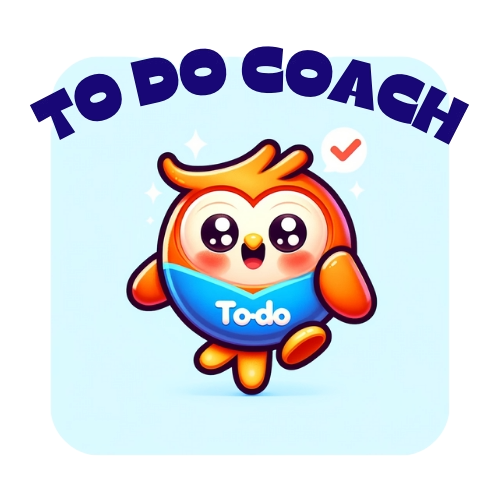
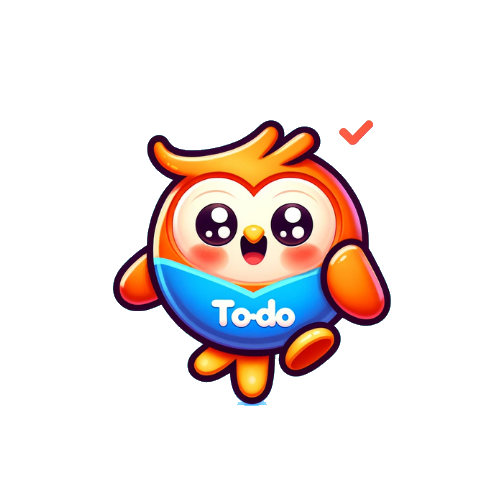
pop up messages and styling on application html file

diff --git a/app/javascript/controllers/edit_task_controller.js b/app/javascript/controllers/edit_task_controller.js
@@ -13,18 +13,4 @@ export default class extends Controller {
     this.infoTarget.classList.add("d-none")
     // this.formTarget.classList.remove("d-none")
   }
-
-  // update(event) {
-  //   event.preventDefault()
-  //   const url = this.formTarget.action
-  //   fetch(url, {
-  //     method: "PATCH",
-  //     headers: { "Accept": "text/plain" },
-  //     body: new FormData(this.formTarget)
-  //   })
-  //     .then(response => response.text())
-  //     .then((data) => {
-  //       this.cardTarget.outerHTML = data
-  //     })
-  // }
 }

diff --git a/app/assets/stylesheets/components/_modal_content.scss b/app/assets/stylesheets/components/_modal_content.scss
@@ -1,0 +1,32 @@
+.modal-body > .img {
+  display: block;
+  margin-left: auto;
+  margin-right: auto;
+}
+
+.modal-content {
+  border-radius: 4px;
+}
+
+#pop-up-avatar{
+  width: 120px;
+}
+
+.modal-body {
+  padding: 0px 0px 40px;
+}
+
+.modal-body > h1 {
+  color: $dark-blue;
+}
+
+#close{
+  padding: 4px;
+  background-color: $dark-blue;
+  opacity: 1;
+  width: 36px;
+}
+
+.btn-close {
+  color: whitesmoke;
+}

diff --git a/app/assets/stylesheets/components/_index.scss b/app/assets/stylesheets/components/_index.scss
@@ -7,3 +7,4 @@
 @import "search";
 @import "card";
 @import "priority_circles";
+@import "modal_content";

diff --git a/app/assets/stylesheets/components/_button.scss b/app/assets/stylesheets/components/_button.scss
@@ -33,3 +33,4 @@
 // .btn-ghost:hover {
 //   opacity: 1;
 // }
+

diff --git a/app/controllers/tasks_controller.rb b/app/controllers/tasks_controller.rb
@@ -70,7 +70,7 @@ class TasksController < ApplicationController
     @task['priority'] = @task['priority'].to_i
       @task.user = current_user
     if @task.save!
-      redirect_to task_path(@task)
+      redirect_to message_task_path(@task)
       ReminderJob.set(wait_until: @task.reminder_date).perform_later
     else
       render :new
@@ -93,14 +93,21 @@ class TasksController < ApplicationController
 
   def toggle_completed
     @task.update(completed: !@task.completed)
-    # redirect_to motivational_message
-    redirect_back(fallback_location: todays_tasks_path)
+    if @task.completed?
+      redirect_to message_task_path(@task)
+    else
+      redirect_back(fallback_location: todays_tasks_path)
+    end
   end
 
   def destroy
     @task = Task.find(params[:id])
     @task.destroy
     redirect_to tasks_path, status: :see_other
+  end
+
+  def message
+    @task = Task.find(params[:id])
   end
 
   private

diff --git a/config/routes.rb b/config/routes.rb
@@ -10,6 +10,7 @@ Rails.application.routes.draw do
     member do
       patch :toggle_completed
       get :dates_tasks, as: 'dates'
+      get :message
     end
   end
   # authenticate :user, ->(user) { user.admin? } do
